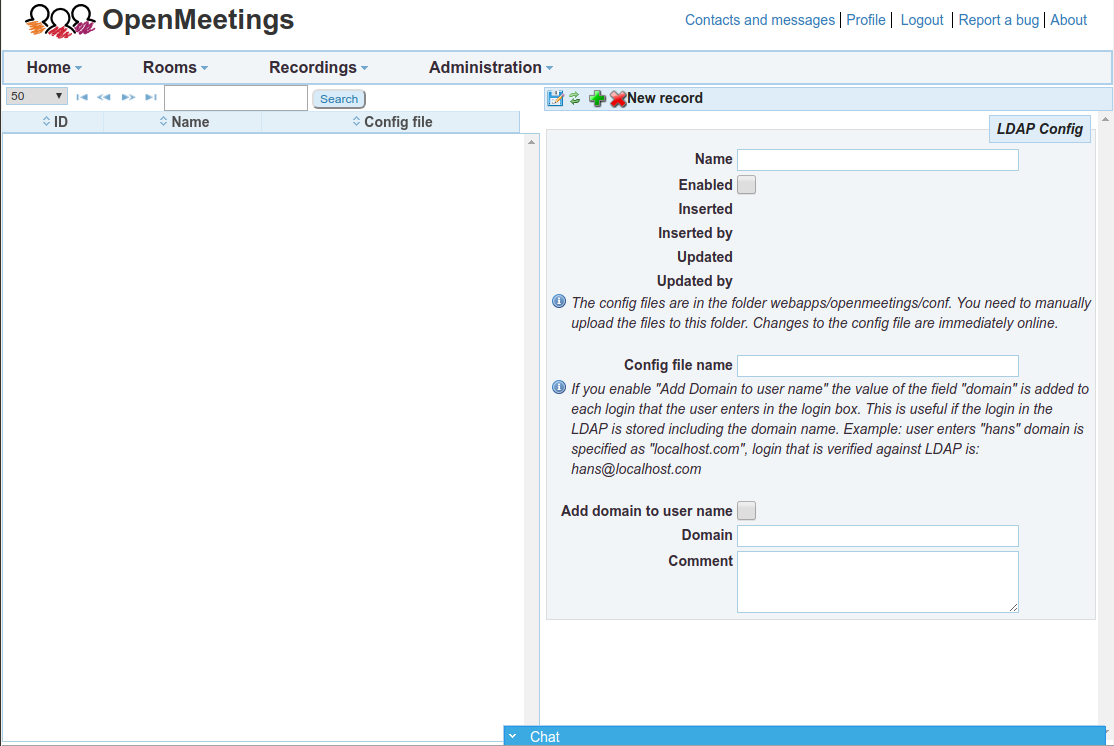
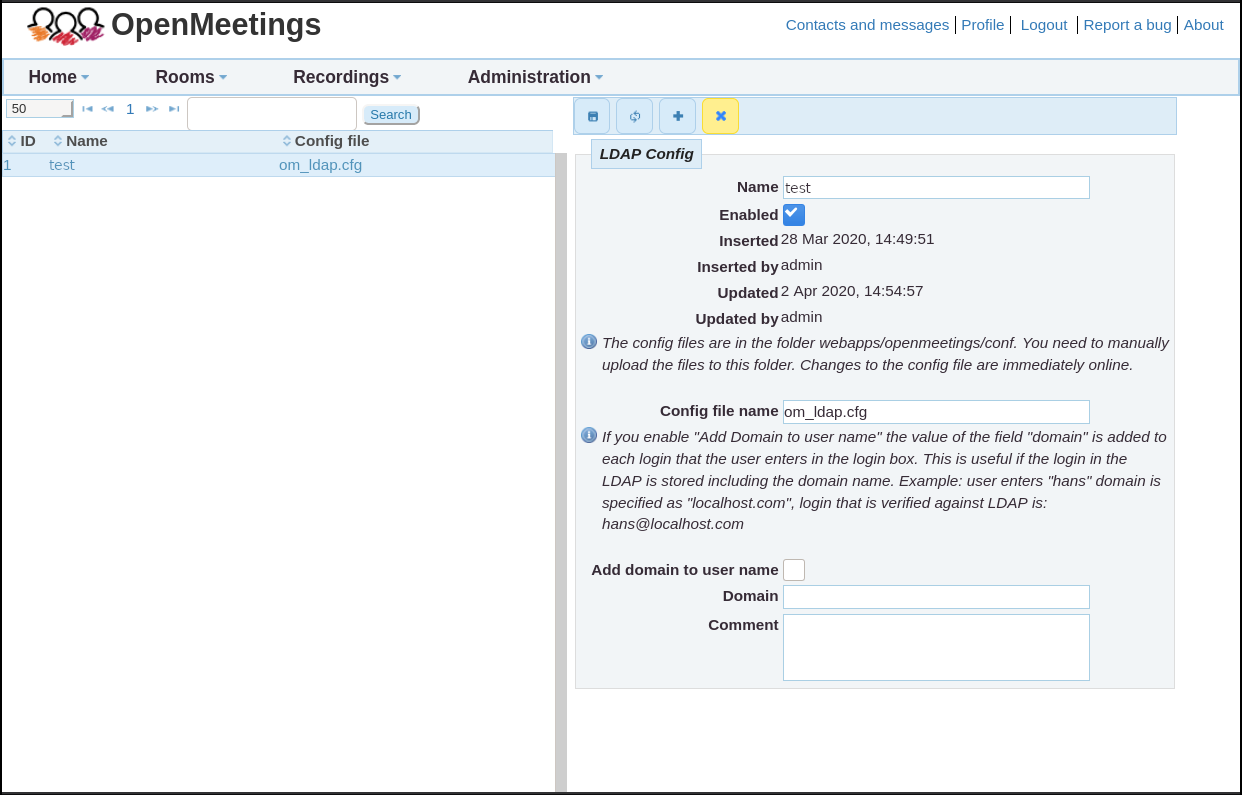
added new LDAP Configuration in markdown format.
- updated openmeetings-server/src/site/resources/images/ldap_screen.png
      - deleted openmeetings-server/src/site/xdoc/LdapAndADS.xml

Changed region(s): [[0.0, 0.0, 1.0, 1.0], [0.8546, 0.8016, 0.9156, 0.8324]]

diff --git a/openmeetings-server/src/site/markdown/LdapAndADS.md b/openmeetings-server/src/site/markdown/LdapAndADS.md
@@ -1,0 +1,238 @@
+<!-- 
+# Licensed under the Apache License, Version 2.0 (the "License") http://www.apache.org/licenses/LICENSE-2.0 -->
+
+# LDAP and Active Directory Integration
+
+This manual explains the configuration to use an already existing
+(e.g. corporate or university) LDAP/AD Server for user authentication
+into OpenMeetings. Successful integration has also been reported with
+Novell eDirectory.
+
+For installation and setup instructions of an LDAP server itself see
+https://help.ubuntu.com/lts/serverguide/openldap-server.html
+
+## LDAP Configuration in OpenMeetings
+
+To configure access to an LDAP Server, three things are needed:
+
+### 1. Information how to access the LDAP Server for user lookup
+
+-   Obtain the ip address and port number of the LDAP server. For the
+    example configuration in the next section we will use the ip
+    address 10.8.0.10 and the default LDAP port number 389.
+
+-   A single LDAP user account is needed that has read privileges to the
+    user entries that are to be used for login by OpenMeetings. Often
+    these accounts have the organizational unit attribute
+    `ou=system-users`.
+
+-   Obtain the cn and password of that user from the LDAP
+    administrator. For the example configuration we will use
+    `cn=openmeetings` and `password=12345`.
+
+-   Obtain the dc values of the root of the LDAP database. In our
+    example we will use `dc=mydomain,dc=org`.
+
+### 2. An LDAP config file
+
+-   This file needs to be located in the folder
+    `$OM_HOME/webapps/openmeetings/data/conf/` <sup><a id="fnr.1" class="footref" href="#fn.1">1</a></sup>.
+    An example file called `om_ldap.cfg` should come with your
+    OpenMeetings installation.
+
+-   The file needs to contain the access information obtained in the
+    previous section. For our example the file would contain the
+    following:
+
+    ```
+    ldap_conn_host=10.8.0.10
+    ldap_conn_port=389
+    ldap_conn_secure=false
+    
+    # The following lines specify the data of the ldap user with 
+    # read privileges to the user entries according to the LDAP DB.
+    ldap_admin_dn=cn=openmeetings,ou=system-users,dc=mydomain,dc=org
+    ldap_passwd=12345
+    
+    # The following line specifies where to search for users wanting to login 
+    ldap_search_base=ou=users,dc=mydomain,dc=org
+    
+    # The attribute in the LDAP DB which will be matched against the 
+    # given login data ("Username or mail address" field) in OpenMeetings:
+    ldap_search_query=(uid=%s)
+    
+    # the scope of the search might be: OBJECT, ONELEVEL, SUBTREE
+    ldap_search_scope=ONELEVEL
+    
+    # Ldap auth type(NONE, SEARCHANDBIND, SIMPLEBIND)
+    #  When using SIMPLEBIND a simple bind is performed on the LDAP server to check user authentication
+    #  When using NONE, the Ldap server is not used for authentication
+    ldap_auth_type=SIMPLEBIND
+    
+    # userDN format, will be used to bind if ldap_auth_type=SIMPLEBIND
+    # might be used to get provisionningDn in case ldap_auth_type=NONE
+    ldap_userdn_format=uid=%s,ou=users,dc=mydomain,dc=org
+    
+    # Ldap provisioning type(NONE, AUTOCREATE, AUTOUPDATE)
+    ldap_provisioning=AUTOCREATE
+    
+    # Ldap deref mode (never, searching, finding, always)
+    ldap_deref_mode=always
+    
+    #  Set this to 'true' if you want to use admin_dn to get user attributes
+    #  If any other value is set, user_dn will be used
+    ldap_use_admin_to_get_attrs=true
+    
+    # Ldap-password synchronization to OM DB
+    #  Set this to 'true' if you want OM to synchronize the user Ldap-password to OM's internal DB
+    #  If you want to disable the feature, set this to any other string.
+    #  Defautl value is 'true'
+    ldap_sync_password_to_om=true
+    
+    # Ldap group mode (NONE, ATTRIBUTE, QUERY)
+    # NONE means group associations will be ignored
+    # ATTRIBUTE means group associations will be taken from 'ldap_group_attr' attribute (M$ AD mode)
+    # QUERY means group associations will be taken as a result of 'ldap_group_query' query
+    ldap_group_mode=NONE
+    
+    ldap_group_query=(&(memberUid=%s)(objectClass=posixGroup))
+    
+    # Ldap user attributes mapping
+    # Set the following internal OM user attributes to their corresponding Ldap-attribute
+    ldap_user_attr_login=uid
+    ldap_user_attr_lastname=sn
+    ldap_user_attr_firstname=givenName
+    ldap_user_attr_mail=mail
+    ldap_user_attr_street=streetAddress
+    ldap_user_attr_additionalname=description
+    ldap_user_attr_fax=facsimileTelephoneNumber
+    ldap_user_attr_zip=postalCode
+    ldap_user_attr_country=co
+    ldap_user_attr_town=l
+    ldap_user_attr_phone=telephoneNumber
+    # optional attribute for user picture
+    #ldap_user_attr_picture=
+    ldap_group_attr=memberOf
+    
+    # optional, absolute URL will be used as user picture if #ldap_user_attr_picture will be empty
+    #ldap_user_picture_uri=picture_uri
+    
+    # Ldap ignore upper/lower case, convert all input to lower case
+    ldap_use_lower_case=false
+    
+    # Ldap import query, this query should retrieve all LDAP users
+    ldap_import_query=(objectClass=inetOrgPerson)
+    
+    ``` 
+    
+    NOTE: Directory Servers are individual for every organization, and
+    might use different attribute names than the ones listed in the
+    example config. Please obtain the information about the structure
+    and attribute names of the entries and adjust the config file
+    accordingly.
+
+    It is important to configure LDAP_SEARCH_PATH so that it points to the
+    node of the LDAP directory server that contains the users.
+
+    If there are multiple search paths you can either try to define a
+    search path that points to multiple nodes or define multiple LDAP
+    configurations in the LDAP administration pane of OpenMeetings.
+
+### 3. Configuring OpenMeetings to use the ldap config file
+
+The final step binds the config file of the previous section to
+OpenMeetings:
+
+-   Log into OpenMeetings as Administrator
+
+-   Open Administration->LDAP
+
+    <img src="../resources/images/ldap_screen.png"></img>
+
+-   In the right pane of the main window labeled "LDAP Config" set
+    the Name of the LDAP DB which you want to appear in the popup
+    menu right of the "Domain" label of OpenMeeting's login
+    screen. Any Name can be set here.
+
+-   Check the "Enabled" checkbox to make the LDAP DB available on the
+    login screen.
+
+-   Fill in the field "Config file name" with the file name of the
+    config file from the previous section of this manual (just the
+    file name, without it's path).
+
+-   Save the Configuration by clicking in the save icon above the
+    "LDAP Config" label and load this setting by clicking in the
+    reload icon right of the save icon.
+
+-   The table in the left pane of OpenMeeting's LDAP administration
+    window should contain an entry with the ID (autoassigned by
+    OpenMeetings), name and config file.
+
+Test the settings by logging out of Openmeetings and logging back in
+with a user and password of the LDAP DB. Make sure you select the
+configured name of the LDAP DB in the "Domain" popup menu of the Login
+screen before pressing the "Sign in" button. If login doesn't work,
+see the section [Troubleshooting](#ldap-troubleshooting)
+
+## Additional (optional) steps
+
+Once login with users from the LDAP DB works, all users of that
+database can get imported into OpenMeetings internal table of users
+using the command line tool "admin.sh":
+
+-   First test with:
+    
+    `$OM_HOME/admin.sh -l -d1 --print-only`
+    
+    The argument of the `-d` ("domain-id") flag indicates the ID number
+    of the LDAP DB in the LDAP table on the left pane in OpenMeeting's
+    Administration->LDAP configuration. If only one LDAP DB is
+    configured there the ID most probably is 1.
+    
+    `--print-only` indicates that the entries shouldn't actually get
+    imported, but rather printed out on the terminal.
+    
+    If everything works as expected, a lot of printout should happen
+    on the terminal with the user entries of the LDAP DB appearing
+    last.
+
+-   In that case the entries can actually get imported into
+    OpenMeetings by omitting `--print-only`:
+    
+    `$OM_HOME/admin.sh -l -d1`
+
+After import they can be found in the OpenMeeting website at
+appopriate places (Invitation into rooms, in the Administration
+pages of Users, Groups and Conference rooms, etc.).
+
+NOTE: It is not strictly necessary to import all users from the LDAP
+DB: Any user who logs into OpenMeeting for the first time will be
+added to OpenMeeting's Users table. For administrative purposes it
+can nevertheless be very convenient to import all users of an LDAP
+DB in order to distribute them to different Groups/Rooms without
+requiring each of them to log in first.
+
+<a id="ldap-troubleshooting" href="#ldap-troubleshooting"></a>
+
+## Troubleshooting
+
+In case login doesn't work it is recommended to turn on verbose
+logging:
+
+- stop OM
+
+- add the following line to `$OM_HOME/webapps/openmeetings/WEB-INF/classes/logback-config.xml`:
+
+    `<logger name="org.apache.directory" level="DEBUG" />`
+
+- restart OM
+
+- Try to log in using the configured LDAP DB and try to debug the
+  problem by checking the log file. By default, logging is done to the
+  file `$OM_HOME/logs/catalina.out`.
+
+## Footnotes
+
+<sup><a id="fn.1" href="#fnr.1">1</a></sup> `$OM_HOME` is the
+home folder of the OpenMeetings installation, e.g. `/opt/open503`
